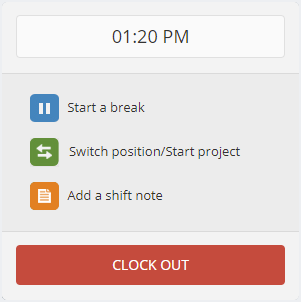
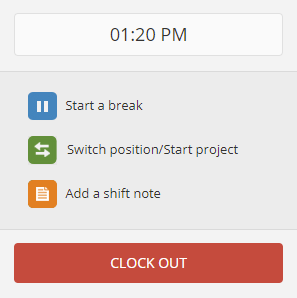
Update image and border

diff --git a/workforce.md b/workforce.md
@@ -9,7 +9,7 @@
 
 ### Main Interface
 
-{% include imageb image="clock" radius="9" %}
+{% include imageb image="clock" %}
 
 {% include image image="workforce" %}
 
